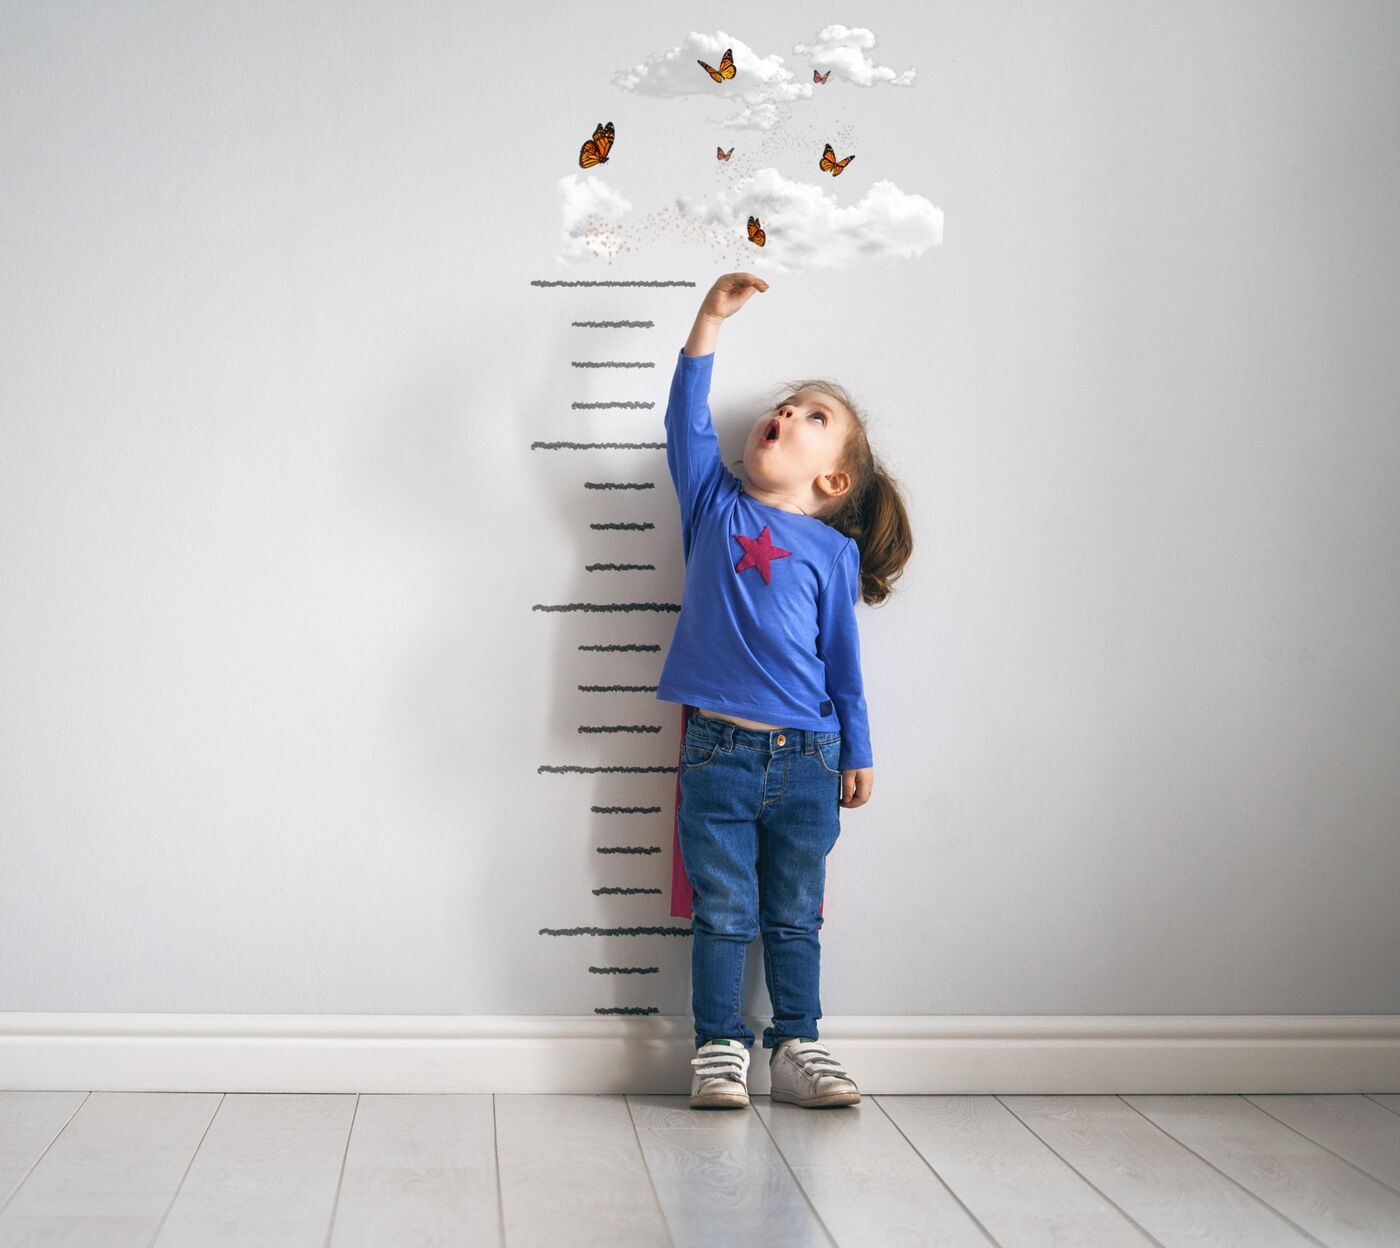
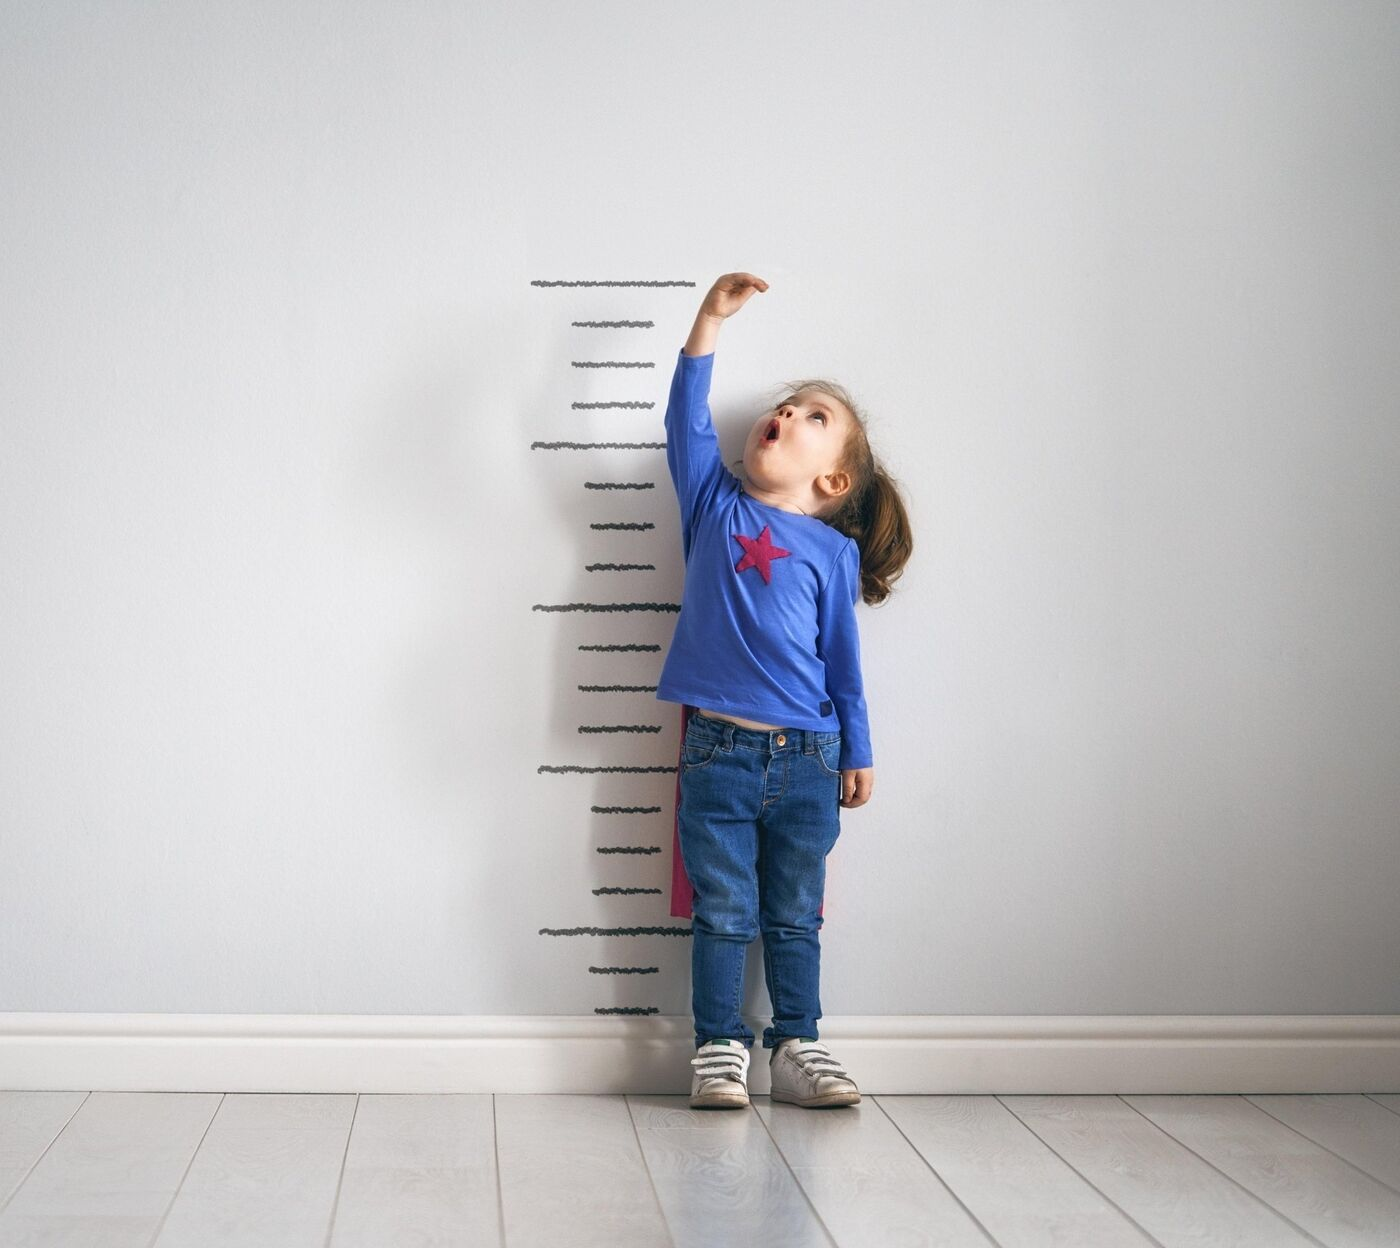
Remove added clouds from height chart photo; add X-ray to baby-bones
Claude-Session: https://claude.ai/code/session_018Q6vReihbTa9XHuFCszjGn

diff --git a/src/content/exhibits/baby-bones.md b/src/content/exhibits/baby-bones.md
@@ -9,7 +9,12 @@ when: "From birth until the teenage years"
 where: "Your skeleton"
 plate: "300 → 206"
 plateNote: "From a baby's bones to a grown-up's."
-imageToFind: "A baby's hand or foot, or an X-ray of a child's hand, public domain on Wikimedia Commons."
+image:
+  src: "/images/baby-bones.jpg"
+  alt: "Two people hold an X-ray of a hand up against a bright window, one pointing at it with a pen. Every bone shows: the long finger bones, the palm bones and the cluster of small wrist bones. This is a grown-up's hand; a baby's X-ray shows many more separate pieces, with gaps where cartilage hasn't yet turned to bone."
+  credit: "Photo by Gustavo Fring, Pexels"
+  licence: "Pexels licence, free to use (cropped)"
+  url: "https://www.pexels.com/@gustavo-fring/"
 pebbles: [taller-in-the-morning, hair-length, goosebumps]
 tags: [the body, bones, babies, growing up]
 sources:

diff --git a/src/content/exhibits/taller-in-the-morning.md b/src/content/exhibits/taller-in-the-morning.md
@@ -11,9 +11,9 @@ plate: "3%"
 plateNote: "How much taller astronauts can grow in space."
 image:
   src: "/images/taller-in-the-morning.jpg"
-  alt: "A small girl in a blue top and jeans stands against a wall marked with a height chart, stretching one arm up as high as she can and looking up in wonder. The clouds and butterflies above her were added to the photo digitally."
+  alt: "A small girl in a blue top and jeans stands against a wall marked with a height chart, stretching one arm up as high as she can and looking up in wonder."
   credit: "Photo by pixelloverk3, Pixabay"
-  licence: "Pixabay licence, free to use (cropped)"
+  licence: "Pixabay licence, free to use (cropped; added clouds and butterflies removed)"
   url: "https://pixabay.com/users/pixelloverk3-3761183/"
 pebbles: [baby-bones, wrinkly-fingers, wright-brothers]
 tags: [the body, bones, space, biology]
